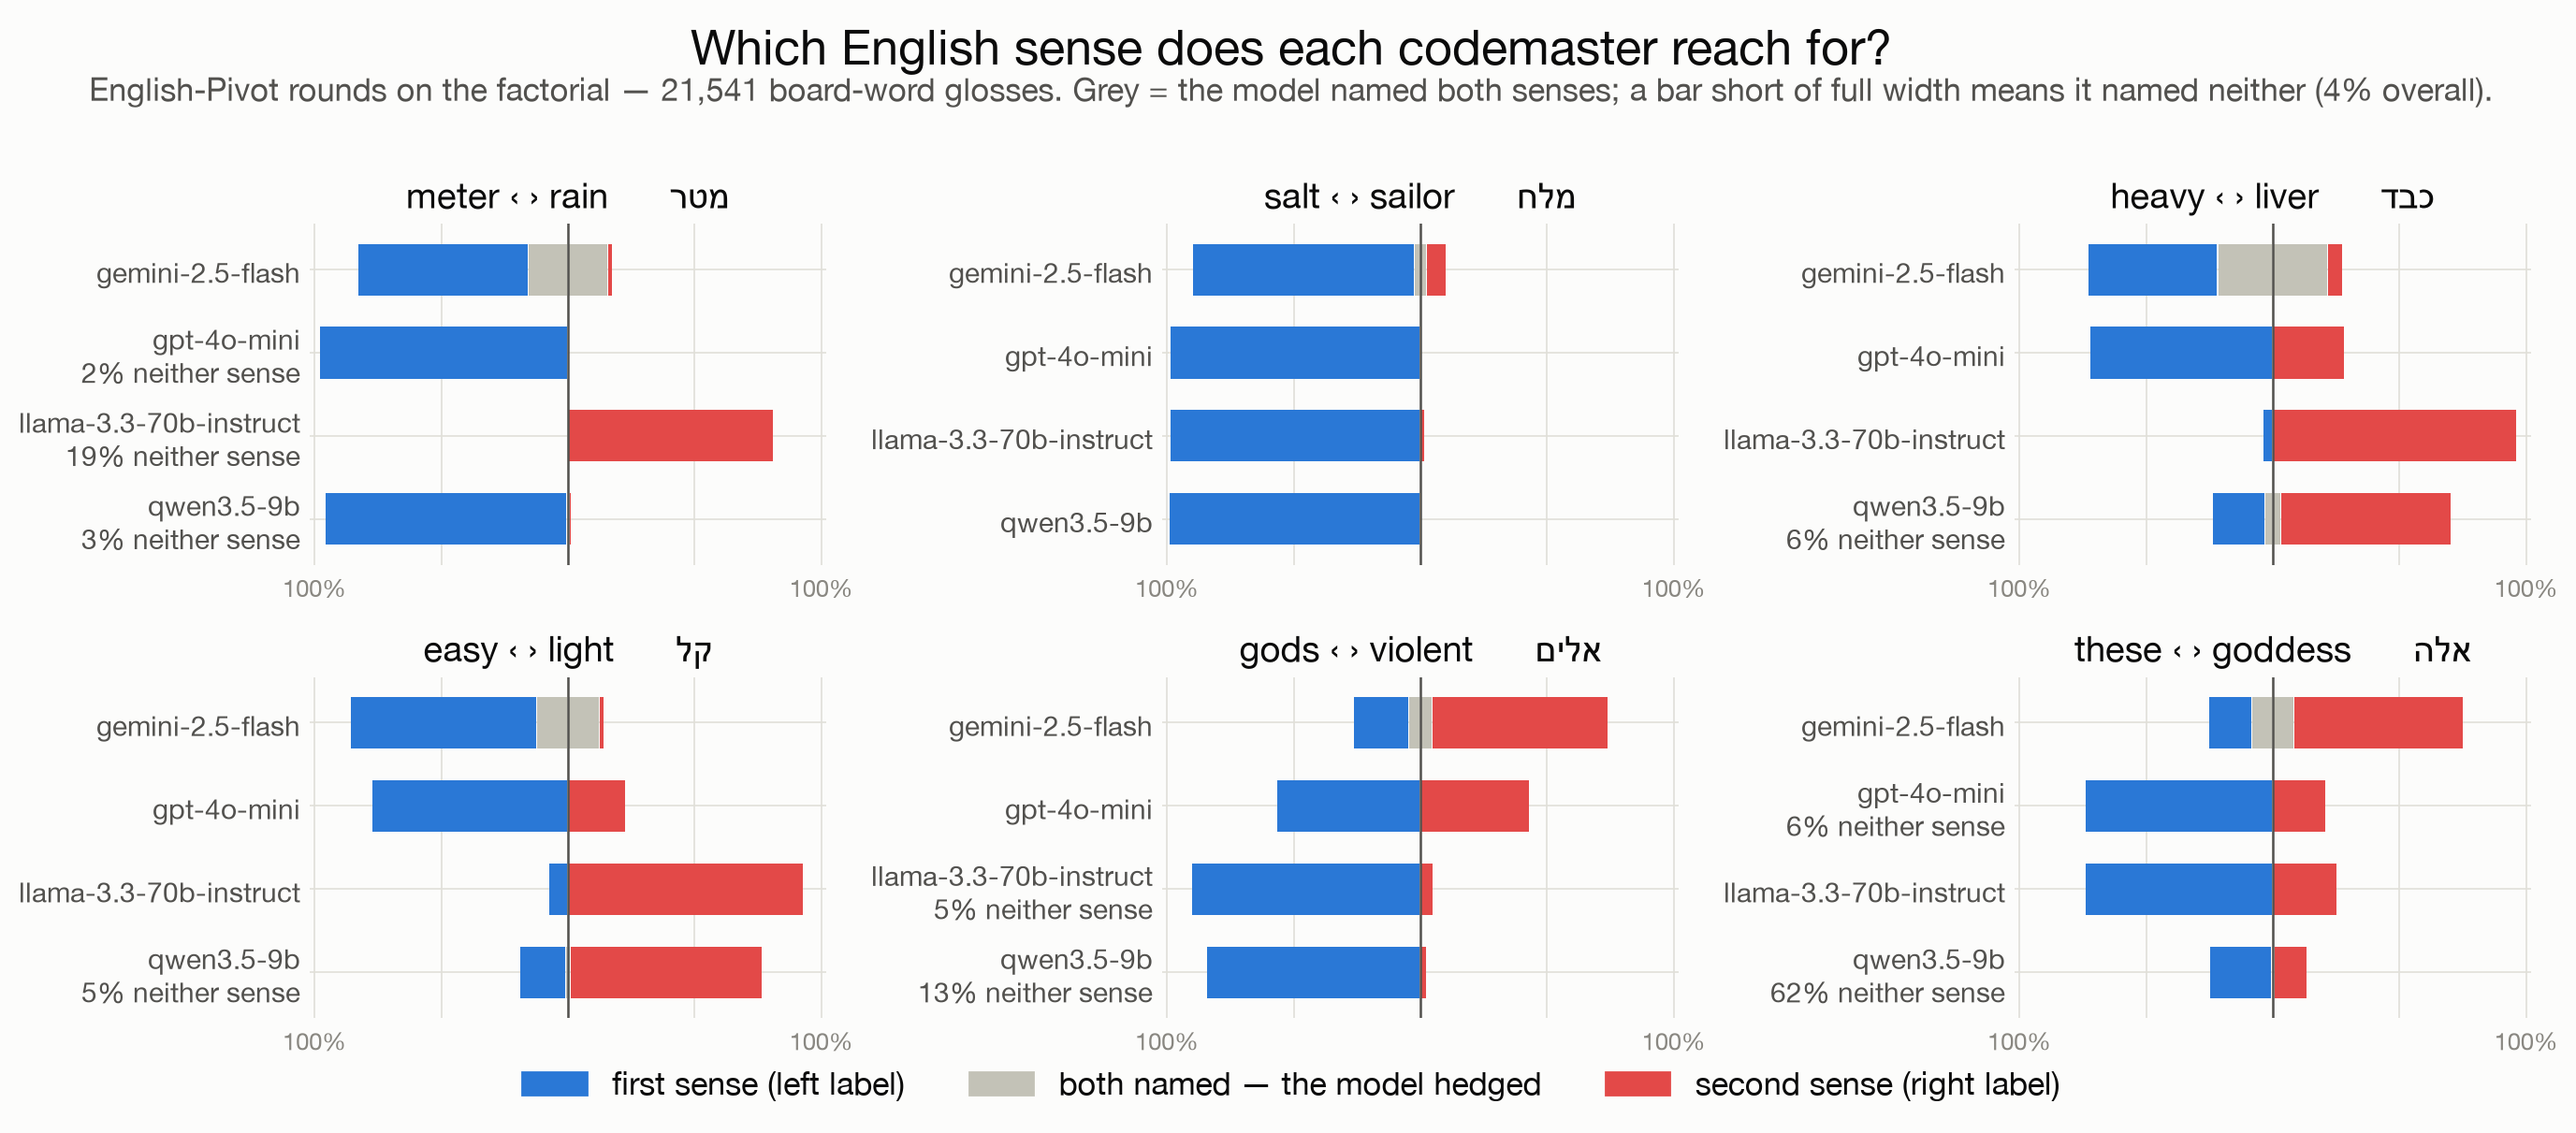
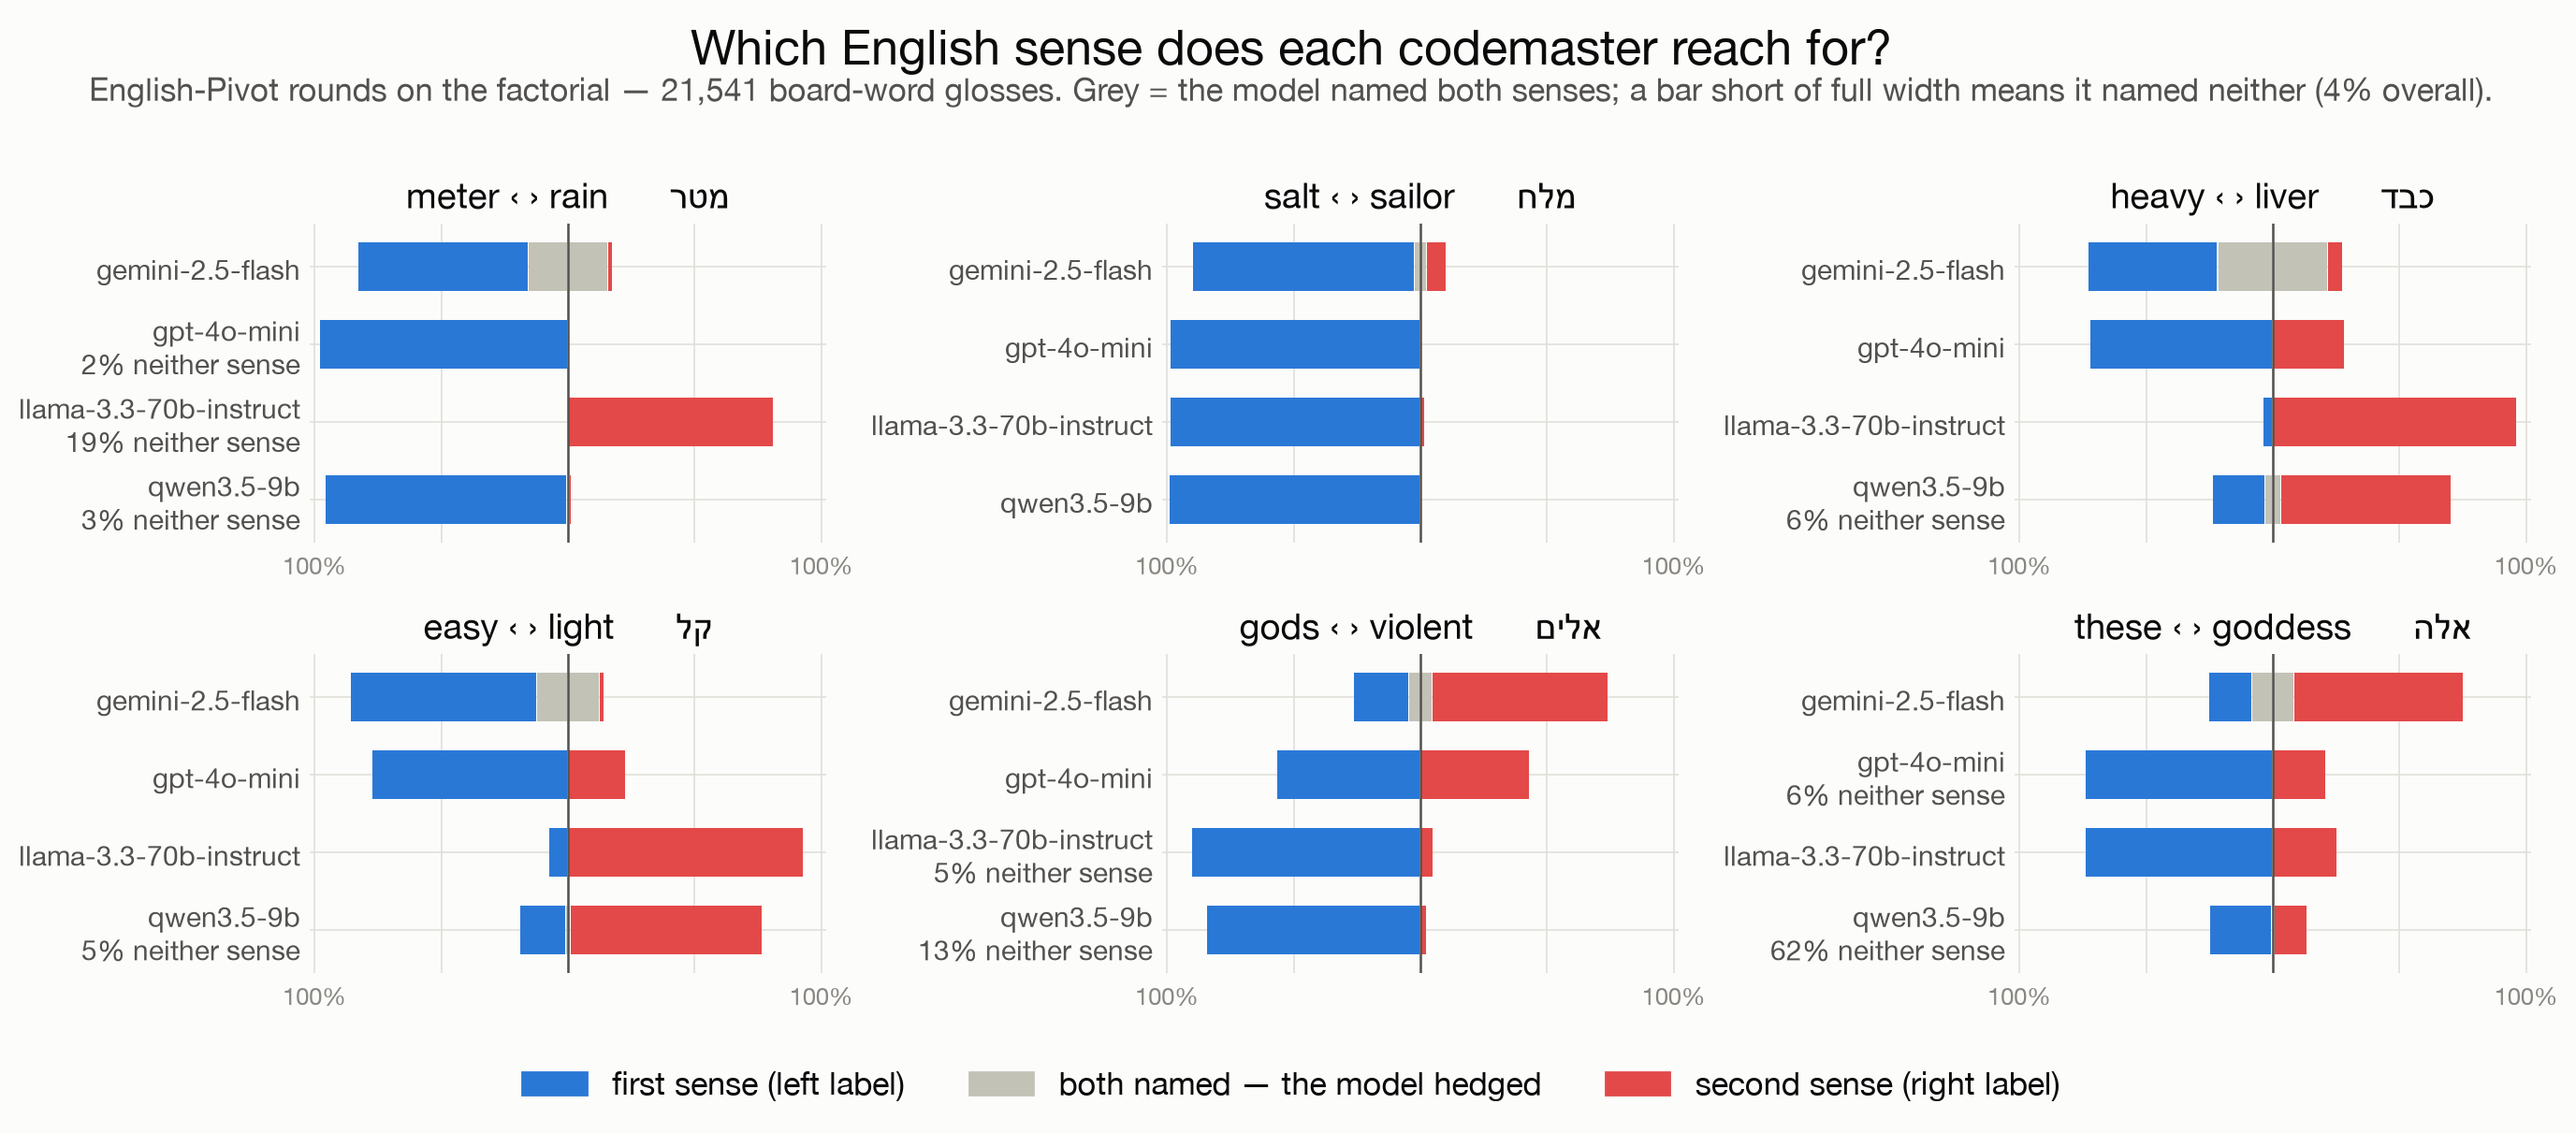
docs(paper): pair matrix with margins, and a three-word gloss cut
fig29 adds a margin to the pair grid: the last column is a codemaster's
mean across all four guessers, the last row a guesser's mean across all
four codemasters, the corner the grand mean. Margins take a separate grey
ramp so a summary is never read as a pair that was played, and they carry
the same numbers Figure 1 reports as bars.

fig30 is the sense-split chart on three words rather than six — one the
models agree on, one they split on, one where the strongest model is the
odd one out — for a slot that cannot take the full six panels. This
needed an ncols argument on gloss_sense_split, and a fix to its bottom
margin, which was a fixed fraction and so put the legend through the axis
labels on a one-row grid.

Both render in all three sets and are added to the LaTeX, including a
half-width subfigure pair.

Claude-Session: https://claude.ai/code/session_01M282Xge4AXvZBmBRWEKr1V

diff --git a/scripts/paper_figures.py b/scripts/paper_figures.py
@@ -320,6 +320,84 @@ def fig_pair_matrix(g):
     return fig
 
 
+def fig_pair_matrix_margins(g):
+    """The pair grid with each model's overall performance on the margin.
+
+    The extra column is a codemaster's mean across all four guessers; the extra
+    row is a guesser's mean across all four codemasters; the corner is the
+    grand mean. They are painted on a grey ramp rather than the blue one so a
+    margin is never mistaken for a cell — a margin summarises the row or column
+    beside it and is not a pair anyone played.
+    """
+    done = g[g.outcome.isin(["win", "loss"])]
+    wins = done[done.is_win == 1]
+    models = MODEL_ORDER
+    n = len(models)
+
+    def grid(frame, metric):
+        m = np.full((n + 1, n + 1), np.nan)
+        for i, r in enumerate(models):
+            for j, c in enumerate(models):
+                sub = frame[(frame.cm == r) & (frame.gs == c)]
+                m[i, j] = sub[metric].mean() if len(sub) else np.nan
+            m[i, n] = frame[frame.cm == r][metric].mean()
+        for j, c in enumerate(models):
+            m[n, j] = frame[frame.gs == c][metric].mean()
+        m[n, n] = frame[metric].mean()
+        return m
+
+    greys = LinearSegmentedColormap.from_list(
+        "greys", ["#f0efec", "#c3c2b7", "#898781", "#52514e"])
+    fig, axes = plt.subplots(2, 1, figsize=(6.2, 9.4)) if HALF else \
+        plt.subplots(1, 2, figsize=(12.4, 5.0))
+    for ax, (frame, metric, fmt, title) in zip(axes, [
+        (done, "is_win", "{:.0%}", "Win rate  (darker = better)"),
+        (wins, "game_length", "{:.1f}", "Rounds to win  (darker = slower)"),
+    ]):
+        m = grid(frame, metric)
+        cells = m.copy(); cells[n, :] = np.nan; cells[:, n] = np.nan
+        marg = m.copy(); marg[:n, :n] = np.nan
+        for data, cmap in ((cells, BLUES), (marg, greys)):
+            cm = cmap.copy(); cm.set_bad(alpha=0)
+            ax.imshow(np.ma.masked_invalid(data), cmap=cm, aspect="auto")
+        lo, hi = np.nanmin(cells), np.nanmax(cells)
+        mlo, mhi = np.nanmin(marg), np.nanmax(marg)
+        for i in range(n + 1):
+            for j in range(n + 1):
+                v = m[i, j]
+                if np.isnan(v):
+                    continue
+                edge = i == n or j == n
+                rng = (mhi - mlo) if edge else (hi - lo)
+                base = mlo if edge else lo
+                shade = (v - base) / rng if rng else 0.5
+                ax.text(j, i, fmt.format(v), ha="center", va="center",
+                        fontsize=fs(8.5), fontweight="bold" if edge else "normal",
+                        color="white" if shade > 0.55 else INK)
+        # A gap between the grid and its margins, so the summary reads apart.
+        ax.axvline(n - 0.5, color=SURFACE, lw=4)
+        ax.axhline(n - 0.5, color=SURFACE, lw=4)
+        ax.set_xticks(range(n + 1))
+        ax.set_xticklabels(models + ["All\nguessers"], fontsize=fs(8),
+                           color=INK_2, rotation=20, ha="right")
+        ax.set_yticks(range(n + 1))
+        ax.set_yticklabels(models + ["All\ncodemasters"], fontsize=fs(8), color=INK_2)
+        ax.set_xlabel("Guesser", fontsize=fs(9))
+        ax.set_ylabel("Codemaster", fontsize=fs(9))
+        ax.set_title(title, fontsize=fs(10), color=INK, loc="left", pad=8)
+        ax.grid(False)
+        for s in ax.spines.values():
+            s.set_visible(False)
+        ax.tick_params(length=0)
+    top = titles(fig, "Every pair, with each model's overall performance",
+                 "The 16 pairs, plus a margin: the last column is a codemaster across all "
+                 "four guessers, the last row a guesser across all four codemasters, and "
+                 "the corner the grand mean. Margins are grey because they summarise a "
+                 "row or column rather than naming a pair that was played.")
+    fig.tight_layout(rect=(0, 0, 1, top))
+    return fig
+
+
 def fig_pair_table(g):
     """The English benchmark's Table I layout, rendered as a figure."""
     done = g[g.outcome.isin(["win", "loss"])]
@@ -872,6 +950,11 @@ def fig_outcome_mix_subset(g):
 # project is about.
 GLOSS_WORDS = ["מטר", "מלח", "כבד", "קל", "אלים", "אלה"]
 
+# A three-word cut for a figure that has to fit a smaller slot. One word the
+# models agree on, one they split on, and one where the strongest model is the
+# odd one out — the three readings the text actually argues from.
+GLOSS_WORDS_SHORT = ["מטר", "מלח", "אלים"]
+
 
 def english_pair_frame(g, r):
     """The pair table in the column order of Table I of the English benchmark."""
@@ -937,16 +1020,19 @@ def fig_pair_table_english(g, r):
     return fig
 
 
-def fig_gloss(g, r):
-    """Which English sense each codemaster reaches for, for six ambiguous words."""
-    counts = gloss_counts([f"results/{FACTORIAL}"], words=GLOSS_WORDS)
+def fig_gloss(g, r, words=None):
+    """Which English sense each codemaster reaches for, for ambiguous words."""
+    words = words or GLOSS_WORDS
+    counts = gloss_counts([f"results/{FACTORIAL}"], words=words)
     shares = sense_shares(counts)
     models = [m for m in sorted(shares.model.unique(),
                                 key=lambda x: MODEL_ORDER.index(short(x)))]
     rounds = int(shares["rounds"].sum())
     unrel = float((shares["share_unrelated"] * shares["rounds"]).sum() / rounds)
     fig = plots.gloss_sense_split(
-        shares, GLOSS_WORDS, models,
+        shares, words, models,
+        # Half-width slots take a single column of stacked panels.
+        ncols=1 if HALF else 3,
         title=None if BARE else "Which English sense does each codemaster reach for?",
         subtitle=None if BARE else (
             f"English-Pivot rounds on the factorial — {rounds:,} board-word glosses. "
@@ -987,6 +1073,9 @@ FIGURES = {
     "fig26_first_guess_subset": ("pooled", fig_first_guess_subset),
     "fig27_pair_table_english": ("factorial", fig_pair_table_english),
     "fig28_gloss_sense_split": ("factorial", fig_gloss),
+    "fig29_pair_matrix_margins": ("factorial", lambda g, r: fig_pair_matrix_margins(g)),
+    "fig30_gloss_three_words": ("factorial",
+                                lambda g, r: fig_gloss(g, r, GLOSS_WORDS_SHORT)),
 }
 
 

diff --git a/scripts/paper_latex.py b/scripts/paper_latex.py
@@ -41,6 +41,10 @@ PAIRS = [
      "number by round in the free-choice arm, where no floor is imposed.",
      [("fig22_board_variance", "Board-to-board variation"),
       ("fig24_ambition_free", "Clue ambition over a game")]),
+    ("newpair", "(a) the pair grid with each model's overall performance on the margin; "
+     "(b) three ambiguous Hebrew words and the English sense each codemaster assigned.",
+     [("fig29_pair_matrix_margins", "Pairs with margins"),
+      ("fig30_gloss_three_words", "Sense split, three words")]),
     ("firstguess", "First guess against the chance rate for the pool at that moment. "
      "(a) all four codemasters on the factorial; (b) the two-model grid on all 450 boards.",
      [("fig23_first_guess_labeled", "All four codemasters"),
@@ -86,6 +90,18 @@ FIGURES = [
     ("fig26_first_guess_subset", "firstguesssubset",
      "First guess against chance, two-model grid",
      "The same grid at the round level, on 150 boards per column."),
+    ("fig29_pair_matrix_margins", "pairsmargins",
+     "Every pair, with each model's overall performance",
+     "The 16 pairs, plus a margin: the last column is a codemaster's mean across all "
+     "four guessers, the last row a guesser's mean across all four codemasters, and the "
+     "corner cell the grand mean. Margins are painted on a separate grey ramp because "
+     "they summarise a row or column rather than naming a pair that was played."),
+    ("fig30_gloss_three_words", "glossshort",
+     "Which English sense each codemaster reaches for",
+     "Three ambiguous Hebrew words under English-Pivot: one the models agree on "
+     "(\\texthebrew{מלח}), one they split on (\\texthebrew{מטר}), and one where the "
+     "strongest model is the odd one out (\\texthebrew{אלים}). Grey is a gloss naming "
+     "both senses; a bar short of full width means the model named neither."),
     ("fig28_gloss_sense_split", "gloss",
      "Which English sense each codemaster reaches for",
      "Six ambiguous Hebrew words and the English sense each codemaster assigned "
@@ -96,7 +112,7 @@ FIGURES = [
 # These are wide; in a two-column template they need the starred environment.
 WIDE = {"fig03_pair_matrix", "fig21_factors_separately", "fig23_first_guess_labeled",
         "fig25_factors_subset", "fig26_first_guess_subset", "fig28_gloss_sense_split",
-        "fig01_role_headline"}
+        "fig01_role_headline", "fig29_pair_matrix_margins", "fig30_gloss_three_words"}
 
 
 def esc(text: str) -> str:

diff --git a/src/codenames_heb/plots.py b/src/codenames_heb/plots.py
@@ -1262,7 +1262,7 @@ def _sense_frame(shares, words, models):
 
 
 def gloss_sense_split(shares, words, models, *, title=None, subtitle=None,
-                      font_scale: float = 1.0):
+                      font_scale: float = 1.0, ncols: int = 3):
     """Diverging stacked bars: which sense each model defaults to, per word.
 
     One panel per word, one bar per model. The bar is centred on the midpoint of
@@ -1278,7 +1278,7 @@ def gloss_sense_split(shares, words, models, *, title=None, subtitle=None,
         """A point size, scaled for the caller's output size."""
         return size * font_scale
 
-    ncols = 3
+    ncols = max(1, min(ncols, len(words)))
     nrows = -(-len(words) // ncols)
     # Row height follows the type: at font_scale 2 a two-line model label is
     # twice as tall, and a fixed 0.42in row runs the labels together.
@@ -1372,7 +1372,10 @@ def gloss_sense_split(shares, words, models, *, title=None, subtitle=None,
         fig.text(0.5, y, subtitle, ha="center", va="top", fontsize=fs(8.5),
                  color=GLOSS_INK_2, wrap=True)
         top = 1 - ((0.94 if title else 0.62) / height)
-    fig.tight_layout(rect=(0, 0.045, 1, top))
+    # Reserve the legend's height in inches, not as a fraction: a one-row grid
+    # is little more than half the height of a two-row one, and a fixed 0.045
+    # leaves the legend sitting on top of the axis labels.
+    fig.tight_layout(rect=(0, 0.52 / height, 1, top))
     return fig
 
 

diff --git a/docs/paper_figures.tex b/docs/paper_figures.tex
@@ -134,6 +134,24 @@
   \label{fig:firstguesssubset}
 \end{figure*}
 
+% === Every pair, with each model's overall performance ===========
+
+\begin{figure*}[t]
+  \centering
+  \includegraphics[width=\linewidth]{figures/fig29_pair_matrix_margins.png}
+  \caption[Every pair, with each model's overall performance]{\textbf{Every pair, with each model's overall performance.} The 16 pairs, plus a margin: the last column is a codemaster's mean across all four guessers, the last row a guesser's mean across all four codemasters, and the corner cell the grand mean. Margins are painted on a separate grey ramp because they summarise a row or column rather than naming a pair that was played.}
+  \label{fig:pairsmargins}
+\end{figure*}
+
+% === Which English sense each codemaster reaches for =============
+
+\begin{figure*}[t]
+  \centering
+  \includegraphics[width=\linewidth]{figures/fig30_gloss_three_words.png}
+  \caption[Which English sense each codemaster reaches for]{\textbf{Which English sense each codemaster reaches for.} Three ambiguous Hebrew words under English-Pivot: one the models agree on (\texthebrew{מלח}), one they split on (\texthebrew{מטר}), and one where the strongest model is the odd one out (\texthebrew{אלים}). Grey is a gloss naming both senses; a bar short of full width means the model named neither.}
+  \label{fig:glossshort}
+\end{figure*}
+
 % === Which English sense each codemaster reaches for =============
 
 \begin{figure*}[t]

diff --git a/docs/paper_figures_half.tex b/docs/paper_figures_half.tex
@@ -95,6 +95,26 @@
     \centering
     \begin{subfigure}{0.48\linewidth}
         \centering
+        \includegraphics[width=\linewidth]{figures/fig29_pair_matrix_margins.png}
+        \caption{Pairs with margins}
+        \label{fig:newpair-a}
+    \end{subfigure}
+    \hfill
+    \begin{subfigure}{0.48\linewidth}
+        \centering
+        \includegraphics[width=\linewidth]{figures/fig30_gloss_three_words.png}
+        \caption{Sense split, three words}
+        \label{fig:newpair-b}
+    \end{subfigure}
+
+    \caption{(a) the pair grid with each model's overall performance on the margin; (b) three ambiguous Hebrew words and the English sense each codemaster assigned.}
+    \label{fig:newpair}
+\end{figure}
+
+\begin{figure}[ht]
+    \centering
+    \begin{subfigure}{0.48\linewidth}
+        \centering
         \includegraphics[width=\linewidth]{figures/fig23_first_guess_labeled.png}
         \caption{All four codemasters}
         \label{fig:firstguess-a}
